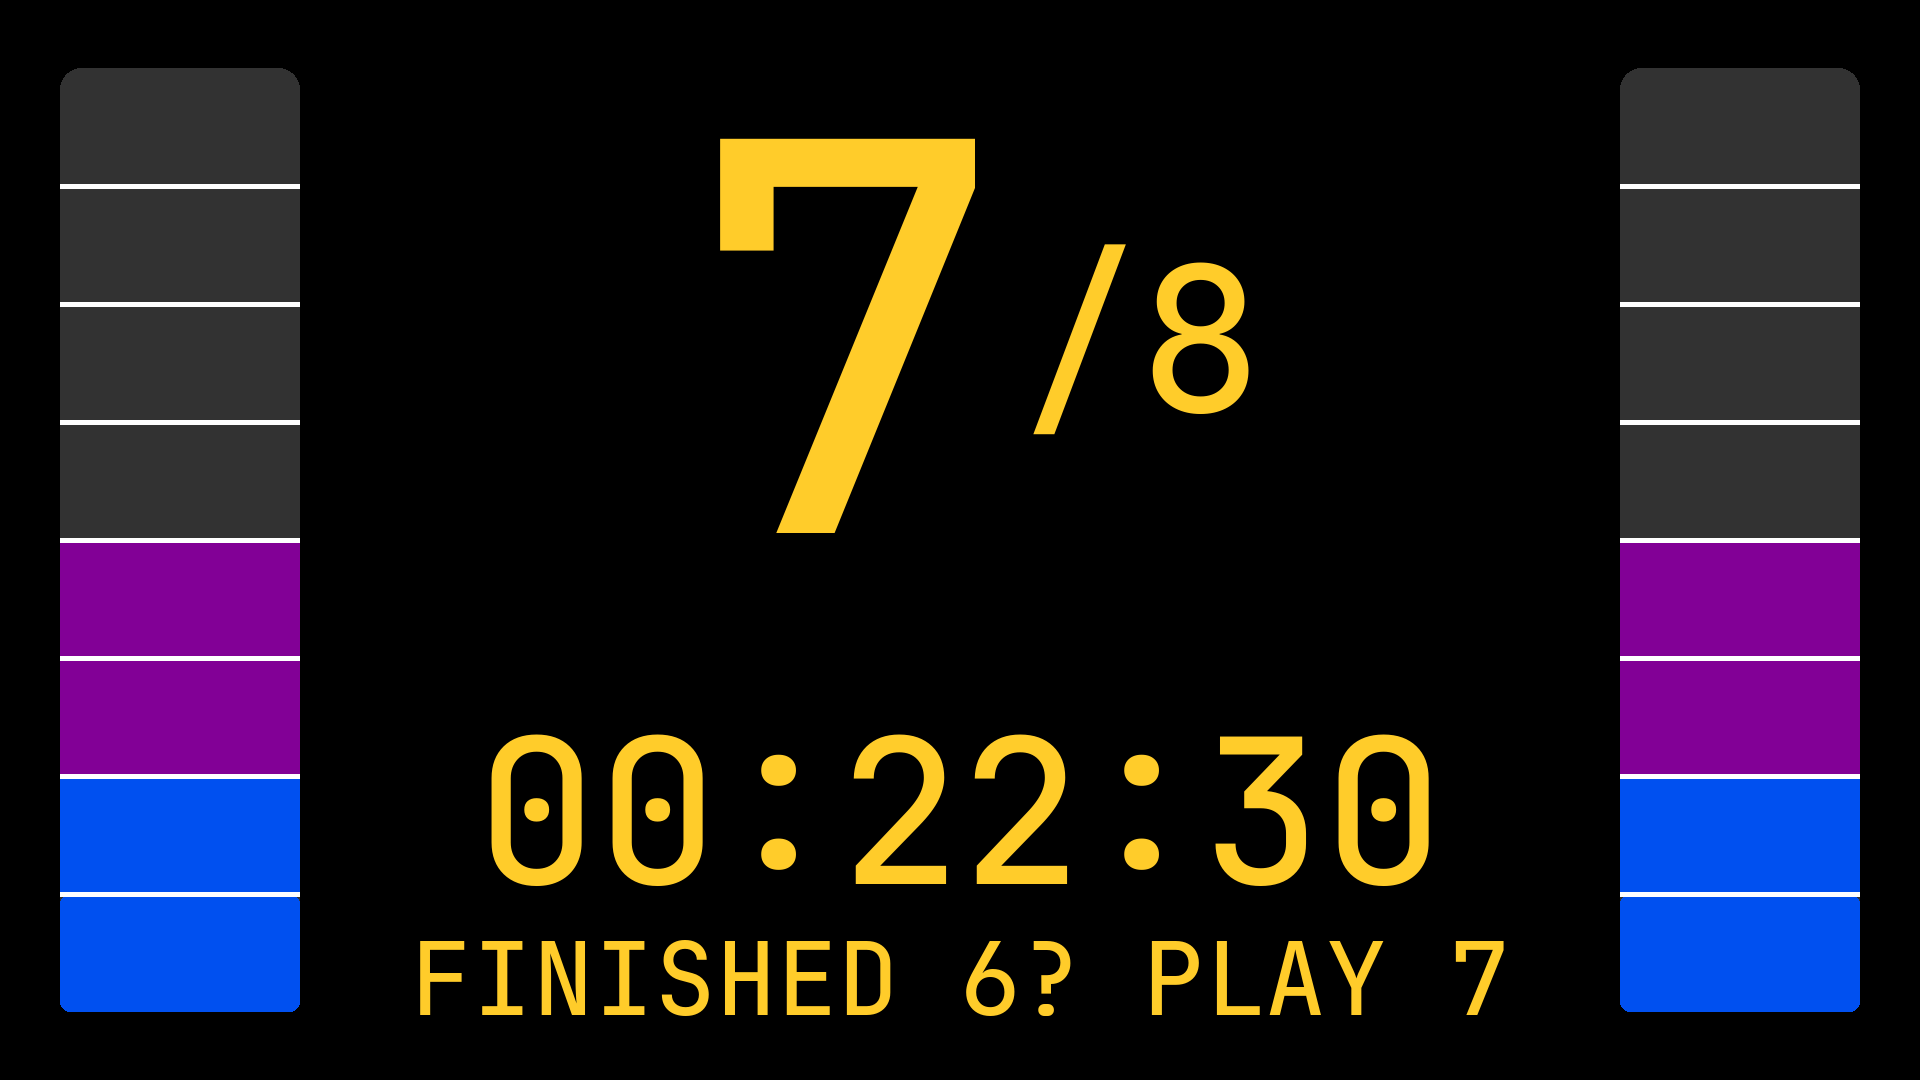
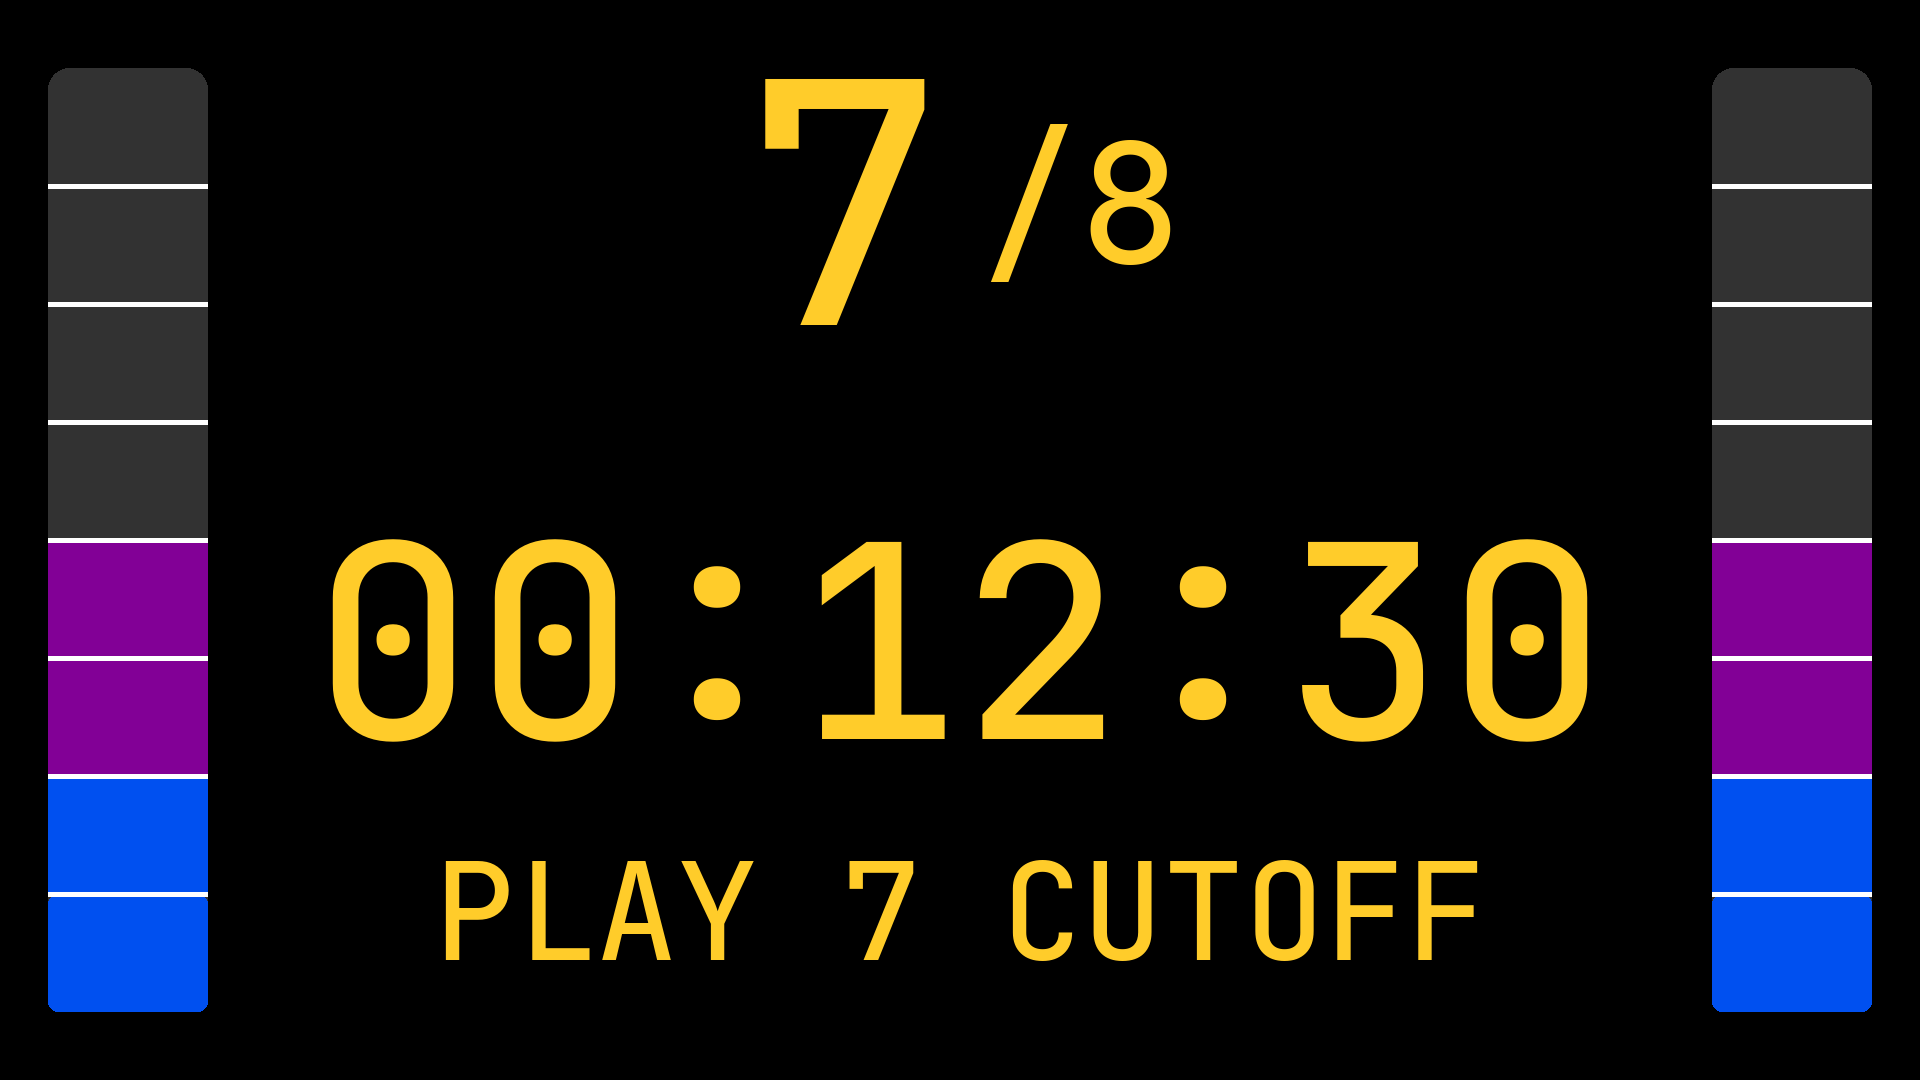
Adjust font sizes and text locations. Enhance so that the timer is counting to the cutoff times for league games.

Changed region(s): [[0.0938, 0.0611, 0.9062, 0.9472], [0.9688, 0.0611, 1.0, 0.9472], [0.0, 0.0611, 0.0312, 0.9472]]

diff --git a/app.py b/app.py
@@ -25,9 +25,9 @@ SERVER_PORT = None
 SERVER_PROCESS = None
 CONFIG_UPDATE_TIME_LIMIT = 30
 MESSAGE_TIME_LIMIT = 10
-MESSAGE_CHR_SOFT_LIMIT = 10
-MESSAGE_CHR_HARD_LIMIT = 20
-MESSAGE_LINE_LIMIT = 3
+MESSAGE_CHR_SOFT_LIMIT = 18
+MESSAGE_CHR_HARD_LIMIT = 28
+MESSAGE_LINE_LIMIT = 4
 WARNING_END_PERCENT = 0.334
 Color = None
 
@@ -165,10 +165,11 @@ class IceClock:
     # Set up the fonts
     #courier = pygame.font.match_font("couriernew", bold=True)
     self.fonts = {}
-    self.fonts["timer"] = self.create_font(3, 16)
+    self.fonts["timer"] = self.create_font(4, 16)
     self.fonts["last_end"] = self.create_font(2, 16)
-    self.fonts["warning"] = self.create_font(3, 32)
-    self.fonts["end"] = self.create_font(1, 2)
+    self.fonts["warning"] = self.create_font(4, 32)
+    self.fonts["end_num_large"] = self.create_font(10, 32)
+    self.fonts["end_num_small"] = self.create_font(5, 32)
     self.fonts["end_progress_label"] = self.create_font(1, 32)
     self.fonts["messages"] = self.create_font(3, 32)
     self.fonts["count_in"] = self.create_font(4, 16)
@@ -219,6 +220,21 @@ class IceClock:
     return self._total_time
 
   @property
+  def cutoff_times(self):
+    if self._server_config["game_type"] == "bonspiel":
+      return []
+
+    num_ends = self._server_config["num_ends"]
+    time_per_end = self._server_config["time_per_end"]
+
+    cutoff_times = (
+      (num_ends - 2)*time_per_end + int(WARNING_END_PERCENT*time_per_end),
+      (num_ends - 1)*time_per_end + int(WARNING_END_PERCENT*time_per_end),
+      self.total_time
+    )
+    return cutoff_times
+
+  @property
   def warning_level(self):
     uptime = self._uptime
     end_number = self._end_number
@@ -229,15 +245,15 @@ class IceClock:
 
     if game_type == "bonspiel":
       if end_number < num_ends - 1:
-        return None
+        return 0
       elif end_number == num_ends - 1:
         return 1
       elif end_number >= num_ends and not allow_ot:
         return 2
     elif game_type == "league":
-      if uptime < (num_ends - 2)*time_per_end + int(WARNING_END_PERCENT*time_per_end):
-        return None
-      elif uptime < (num_ends - 1)*time_per_end + int(WARNING_END_PERCENT*time_per_end):
+      if uptime < self.cutoff_times[0]:
+        return 0
+      elif uptime < self.cutoff_times[1]:
         return 1
       elif end_number >= num_ends and not allow_ot:
         return 2
@@ -258,14 +274,28 @@ class IceClock:
     times = response.json().get("times")
     self._server_config = response.json().get("config")
 
-    self._hours = times["hours"]
-    self._minutes = times["minutes"]
-    self._seconds = times["seconds"]
     self._end_number = times["end_number"]
     self._end_percentage = times["end_percentage"]
     self._is_overtime = times["is_overtime"]
     self._uptime = times["uptime"]
     self._total_time = times["total_time"]
+
+    if self.config["game_type"] == "bonspiel":
+      self._hours = times["hours"]
+      self._minutes = times["minutes"]
+      self._seconds = times["seconds"]
+    else:
+      num_ends = self._server_config["num_ends"]
+      time_per_end = self._server_config["time_per_end"]
+      total_time = self.cutoff_times[self.warning_level]
+
+      remaining_time = total_time - self._uptime
+      if remaining_time < 0:
+        remaining_time = 0
+      self._hours = int(remaining_time // 3600)
+      self._minutes = int((remaining_time // 60) % 60)
+      self._seconds = int(remaining_time % 60)
+
 
   def get_text_color(self):
     if not self.warning_level:
@@ -286,7 +316,7 @@ class IceClock:
     color = self.get_text_color()
 
     text = self.fonts["timer"].render("{:02d}:{:02d}:{:02d}".format(self._hours, self._minutes, self._seconds), True, color)
-    text_rect = text.get_rect(center=(self.center["x"], self.center["y"] + 4*self.height // 16))
+    text_rect = text.get_rect(center=(self.center["x"], self.center["y"] + 3*self.height // 32))
     self.screen.blit(text, text_rect)
 
   def render_detail_text(self):
@@ -298,18 +328,21 @@ class IceClock:
     elif self._server_config["game_type"] == "bonspiel" and self._uptime >= self._server_config["time_to_chime"]:
       text = self.fonts["last_end"].render("FINISH END +1", True, color)
     elif self.warning_level == 2 and not self._server_config["game_type"] == "bonspiel" and not self._is_overtime:
-      text = self.fonts["warning"].render("FINISH CURRENT END", True, color)
+      msg = "FINISH CURRENT END" if not self.jestermode else "FINNISH CURRENT END"
+      text = self.fonts["warning"].render(msg, True, color)
     elif self.warning_level == 1 and not self._server_config["game_type"] == "bonspiel" and not self._is_overtime:
       msg = "PLAY {:d} CUTOFF".format(self._server_config["num_ends"]-1)
       text = self.fonts["warning"].render(msg, True, color)
+    elif self._server_config["game_type"] != "bonspiel":
+      msg = "PLAY {:d} CUTOFF".format(self._server_config["num_ends"])
+      text = self.fonts["last_end"].render(msg, True, color)
     elif self._is_overtime:
       text = self.fonts["last_end"].render("OVERTIME", True, color)
     else:
-      msg = "PLAY {:d} CUTOFF".format(self._server_config["num_ends"])
-      text = self.fonts["last_end"].render(msg, True, color)
+      text = self.fonts["last_end"].render("", True, color)
 
     if self._server_config["game_type"] != "bonspiel":
-      text_rect = text.get_rect(center=(self.center["x"], self.center["y"] + 6.5*self.height // 16))
+      text_rect = text.get_rect(center=(self.center["x"], self.center["y"] + 11*self.height // 32))
     else:
       text_rect = text.get_rect(center=(self.center["x"], self.center["y"] + 4*self.height // 16))
     self.screen.blit(text, text_rect)
@@ -325,19 +358,19 @@ class IceClock:
 
     if not self._is_overtime:
       end_num = self._end_number if self._end_number < self._server_config["num_ends"] else self._server_config["num_ends"]
-      text = self.fonts["end"].render("{:d}".format(end_num), True, color)
-      text_rect = text.get_rect(center=(self.center["x"] - 2*self.width // 32, self.center["y"] - 3*self.height // 16))
+      text = self.fonts["end_num_large"].render("{:d}".format(end_num), True, color)
+      text_rect = text.get_rect(center=(self.center["x"] - 2*self.width // 32, self.center["y"] - 5*self.height // 16))
       if self.jestermode:
         text = pygame.transform.flip(text, False, True)
       self.screen.blit(text, text_rect)
 
-      text = self.fonts["timer"].render("/{:d}".format(self._server_config["num_ends"]), True, color)
-      text_rect = text.get_rect(center=(self.center["x"] + 3*self.width // 32, self.center["y"] - 3*self.height // 16))
+      text = self.fonts["end_num_small"].render("/{:d}".format(self._server_config["num_ends"]), True, color)
+      text_rect = text.get_rect(center=(self.center["x"] + 2*self.width // 32, self.center["y"] - 5*self.height // 16))
       if self.jestermode:
         text = pygame.transform.flip(text, False, True)
       self.screen.blit(text, text_rect)
     else:
-      text = self.fonts["end"].render("OT", True, color)
+      text = self.fonts["end_num_large"].render("OT", True, color)
       if self.jestermode:
         text = pygame.transform.flip(text, False, True)
       text_rect = text.get_rect(center=(self.center["x"], self.center["y"] - 3*self.height // 16))
@@ -478,7 +511,7 @@ class IceClock:
     if len(output_lines) < MESSAGE_LINE_LIMIT:
       output_lines.append(line_buf)
     else:
-      output_lines[MESSAGE_LINE_LIMIT-1] = "{:s}...".format(output_lines[MESSAGE_LINE_LIMIT-1][:MESSAGE_CHR_HARD_LIMIT-3])
+      output_lines[-1] = "{:s}...".format(output_lines[-1][:MESSAGE_CHR_HARD_LIMIT-3])
     Nlines = len(output_lines)
 
     # Render the message to the screen
@@ -531,7 +564,7 @@ class IceClock:
     self.screen.fill(Color.SCREEN_BG.value)
     if not self._server_config["count_in"]:
       self.render_end_progress_bar()
-    #self.render_end_progress_labels()
+    #elf.render_end_progress_labels()
 
     # If there are messages, render them and skip the timer
     if self._messages:
@@ -542,7 +575,9 @@ class IceClock:
       pass
     else:
       self.render_timer()
-    self.render_detail_text()
+
+    if not self._messages and not self._server_config["count_in"]:
+      self.render_detail_text()
 
     if not self._server_config["count_in"]:
       self.render_end_number()

diff --git a/test_app.py b/test_app.py
@@ -30,7 +30,16 @@ GOLDEN_DIR = os.path.join(BASE_PATH, "app_tests")
 def render_app(clock, end_num, end_percentage):
   img_io = io.BytesIO()
 
-  if not clock._server_config["count_in"]:
+  clock._total_time = clock._server_config["num_ends"] * clock._server_config["time_per_end"]
+  if not clock._server_config["count_in"] and not clock._server_config["game_type"] == "bonspiel":
+    clock._end_number = end_num
+    clock._uptime = clock._server_config["time_per_end"] * (end_num - 1) + end_percentage * clock._server_config["time_per_end"]
+
+    num_ends = clock._server_config["num_ends"]
+    time_per_end = clock._server_config["time_per_end"]
+    total_time = clock.cutoff_times[clock.warning_level]
+    elapsed = clock._uptime
+  elif clock._server_config["game_type"] == "bonspiel":
     total_time = clock._server_config["time_per_end"] * clock._server_config["num_ends"]
     elapsed = clock._server_config["time_per_end"] * (end_num - 1) + end_percentage * clock._server_config["time_per_end"]
   else:
@@ -151,7 +160,7 @@ class TestIceClock(unittest.TestCase):
   def test_long_message(self, golden_path=None):
     end_num = 2
     end_percentage = 0.5
-    self.clock._messages.append(("This message will be truncated because it is too long!", app.timestamp()))
+    self.clock._messages.append(("This message will be truncated because it is too long! It is really very long. Who made this message so long?", app.timestamp()))
     img_io = render_app(self.clock, end_num, end_percentage)
     self.image_test(img_io, golden_path)
 
